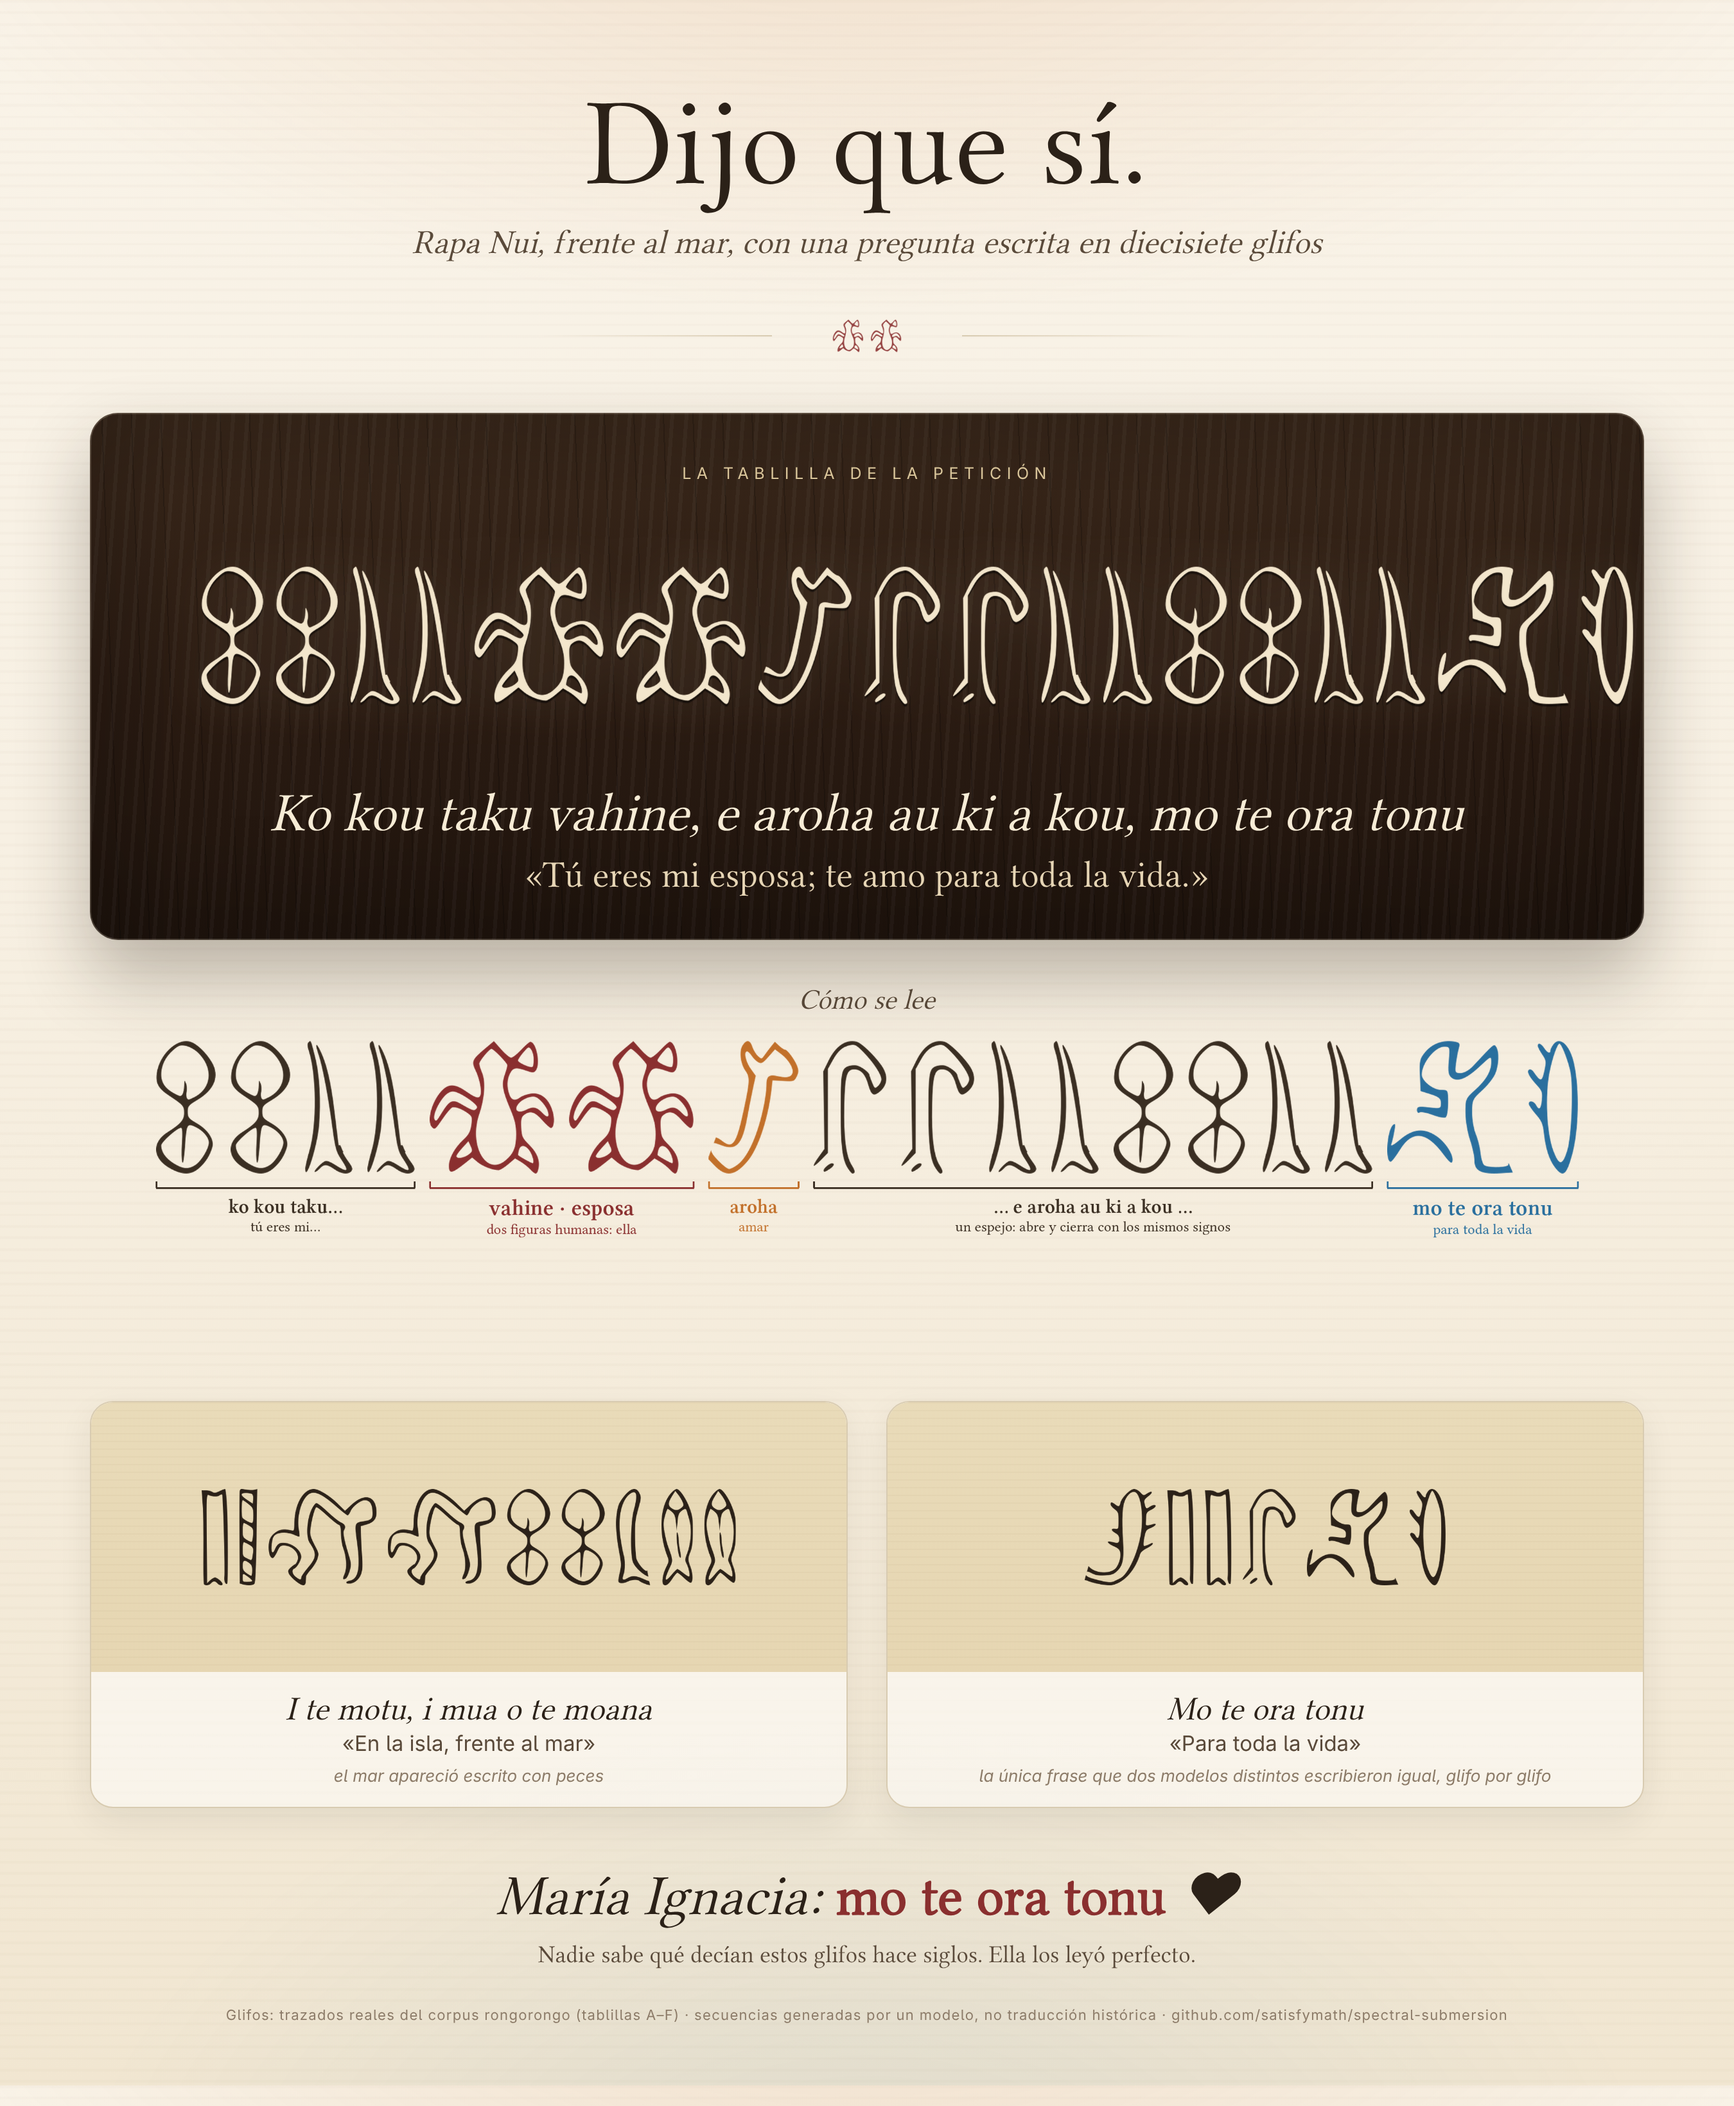
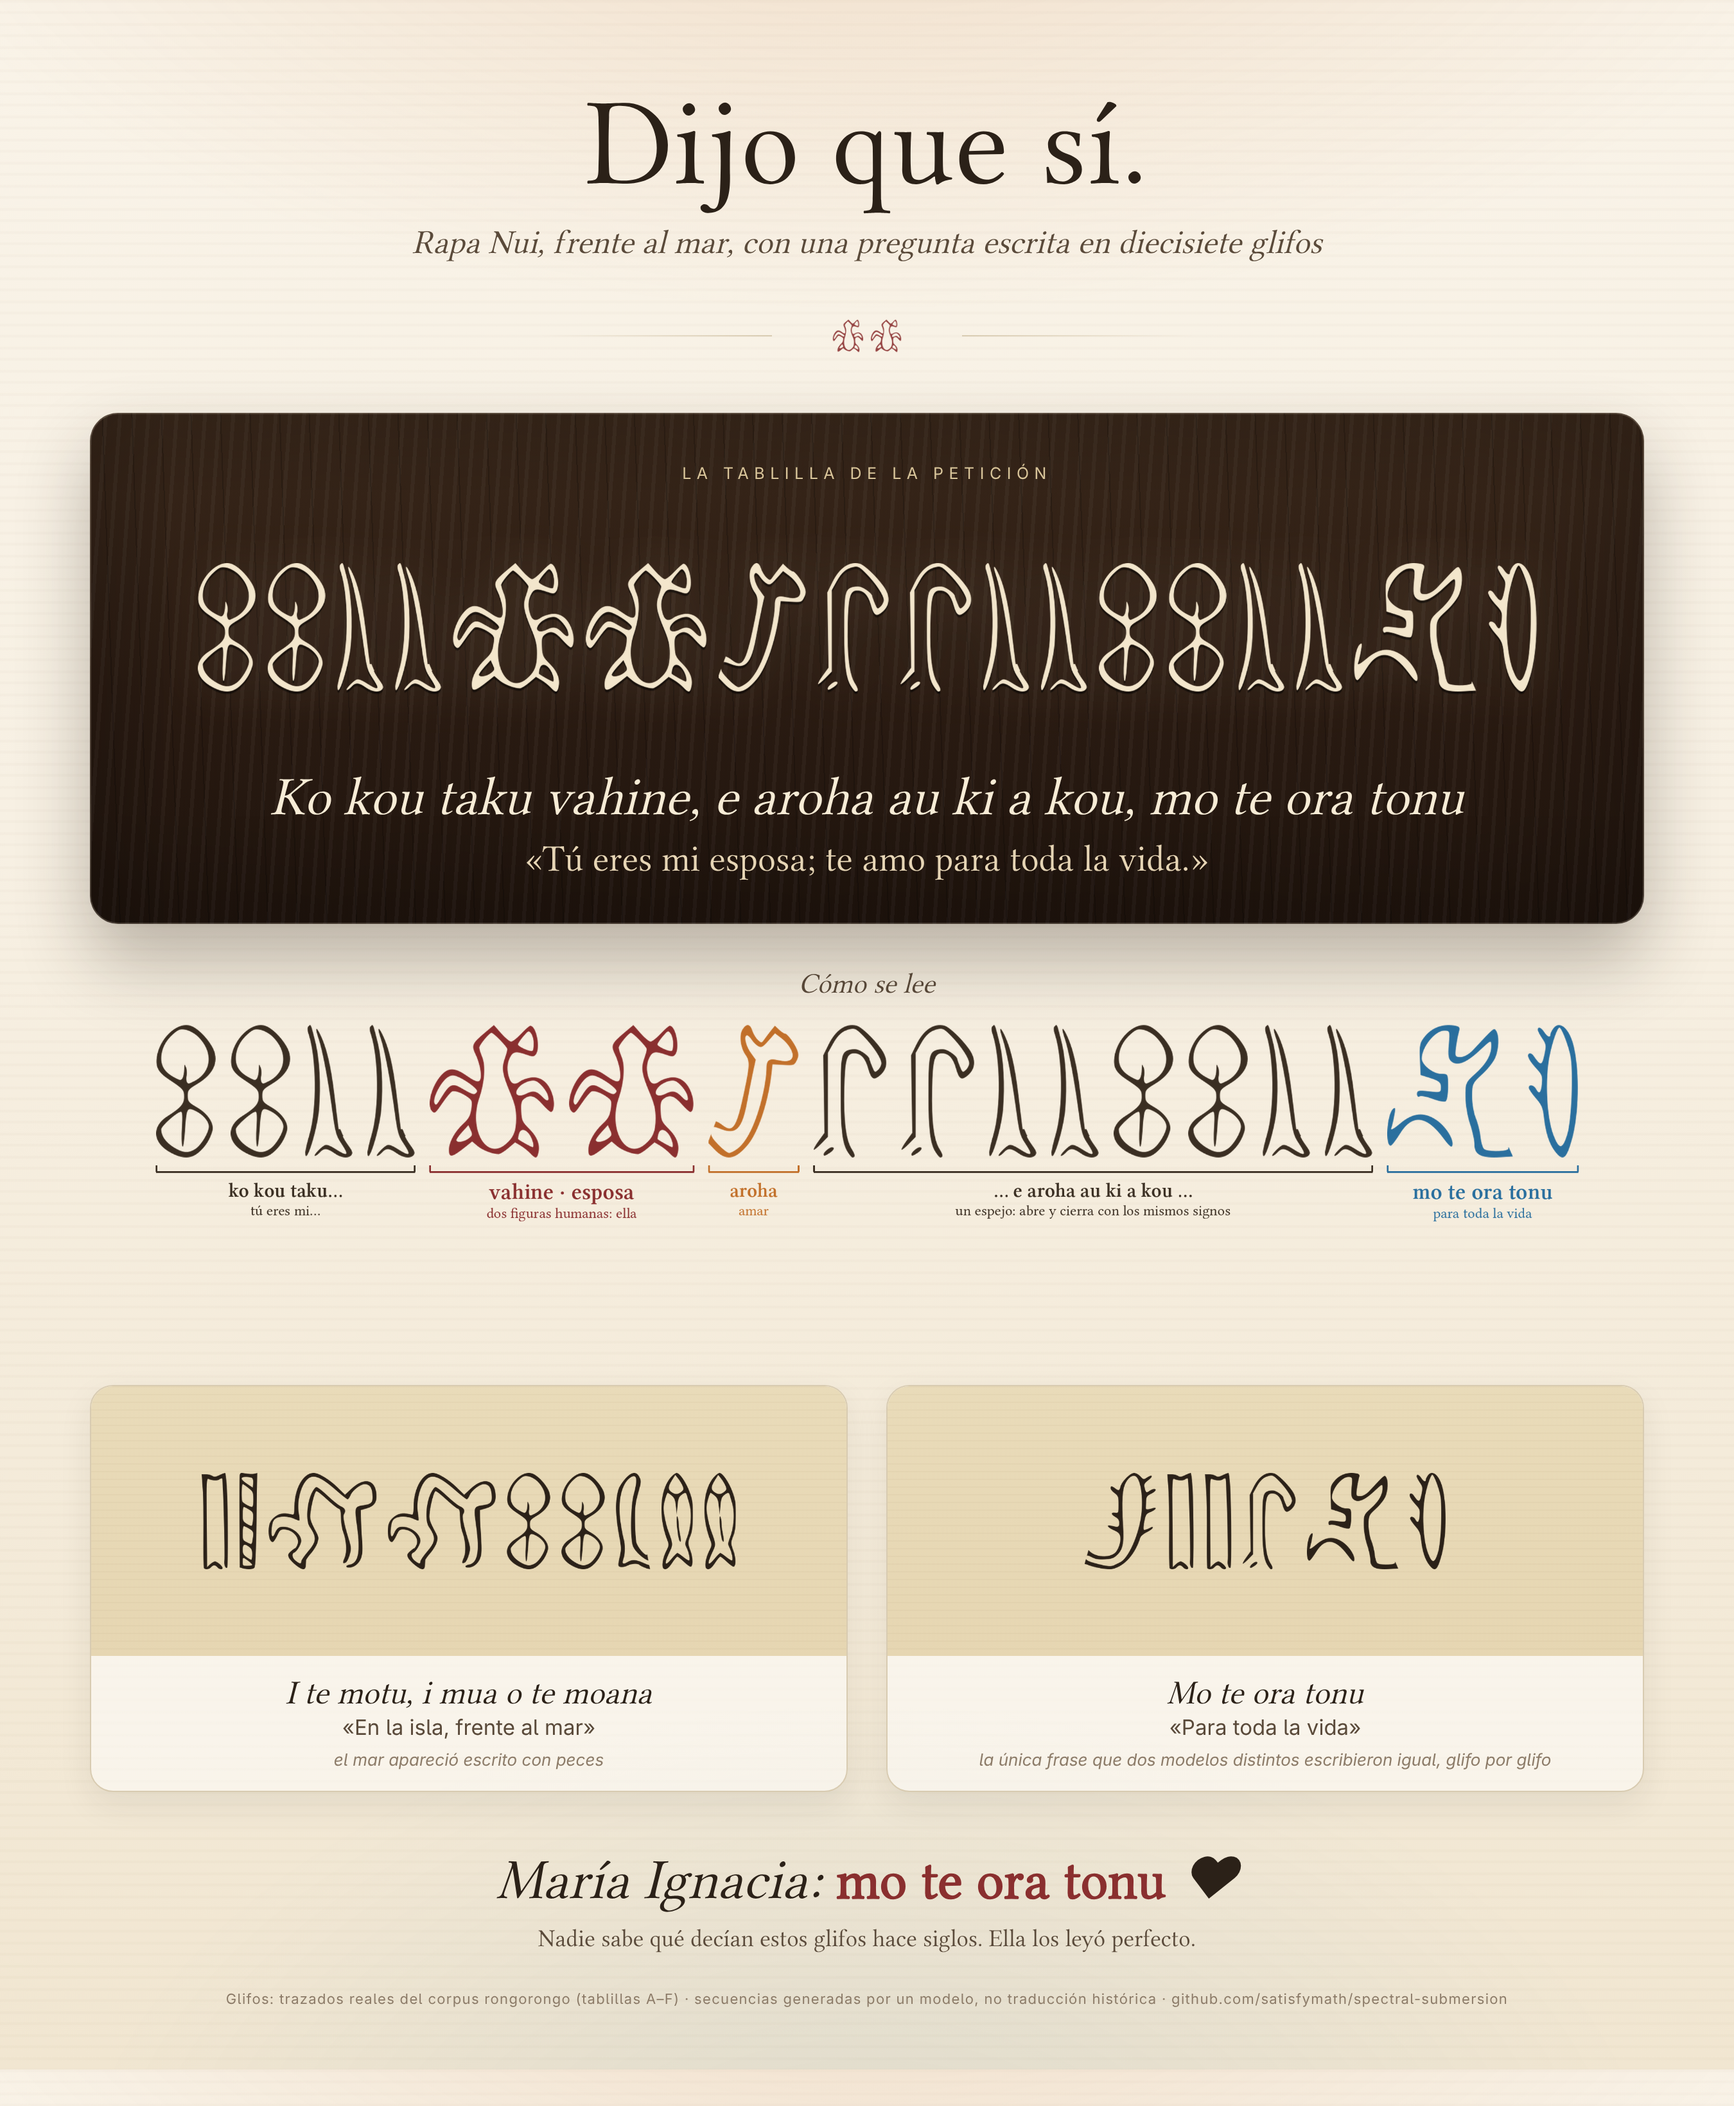
Center the proposal strip inside the hero band

diff --git a/infografia/post_linkedin.html b/infografia/post_linkedin.html
@@ -19,7 +19,7 @@ h1{font-family:"Libertinus Serif Display",serif;font-size:96px;font-weight:600;t
   background:repeating-linear-gradient(94deg, rgba(255,255,255,.035) 0 3px, transparent 3px 11px),repeating-linear-gradient(88deg, rgba(0,0,0,.18) 0 1px, transparent 1px 23px),linear-gradient(180deg,var(--wood2),var(--wood) 55%,#1f140d);
   box-shadow:0 28px 56px rgba(43,33,24,.30), inset 0 0 0 1px rgba(243,230,204,.2), inset 0 0 110px rgba(0,0,0,.35)}
 .hero .k{font-size:12.5px;letter-spacing:.34em;text-transform:uppercase;color:#d9c59a;text-align:center}
-.hero img{width:1200px;display:block;margin:22px auto 18px;filter:drop-shadow(0 2px 0 rgba(0,0,0,.5)) drop-shadow(0 0 18px rgba(217,197,154,.22))}
+.hero img{width:100%;max-width:1200px;display:block;margin:22px auto 18px;filter:drop-shadow(0 2px 0 rgba(0,0,0,.5)) drop-shadow(0 0 18px rgba(217,197,154,.22))}
 .hero .rap{font-family:"Libertinus Serif Display",serif;font-style:italic;font-size:42px;text-align:center;color:#f7ecd6}
 .hero .es{font-family:"Libertinus Serif Display",serif;font-size:29px;text-align:center;color:#e6d5b5;margin-top:8px}
 .key{margin-top:34px;text-align:center}
